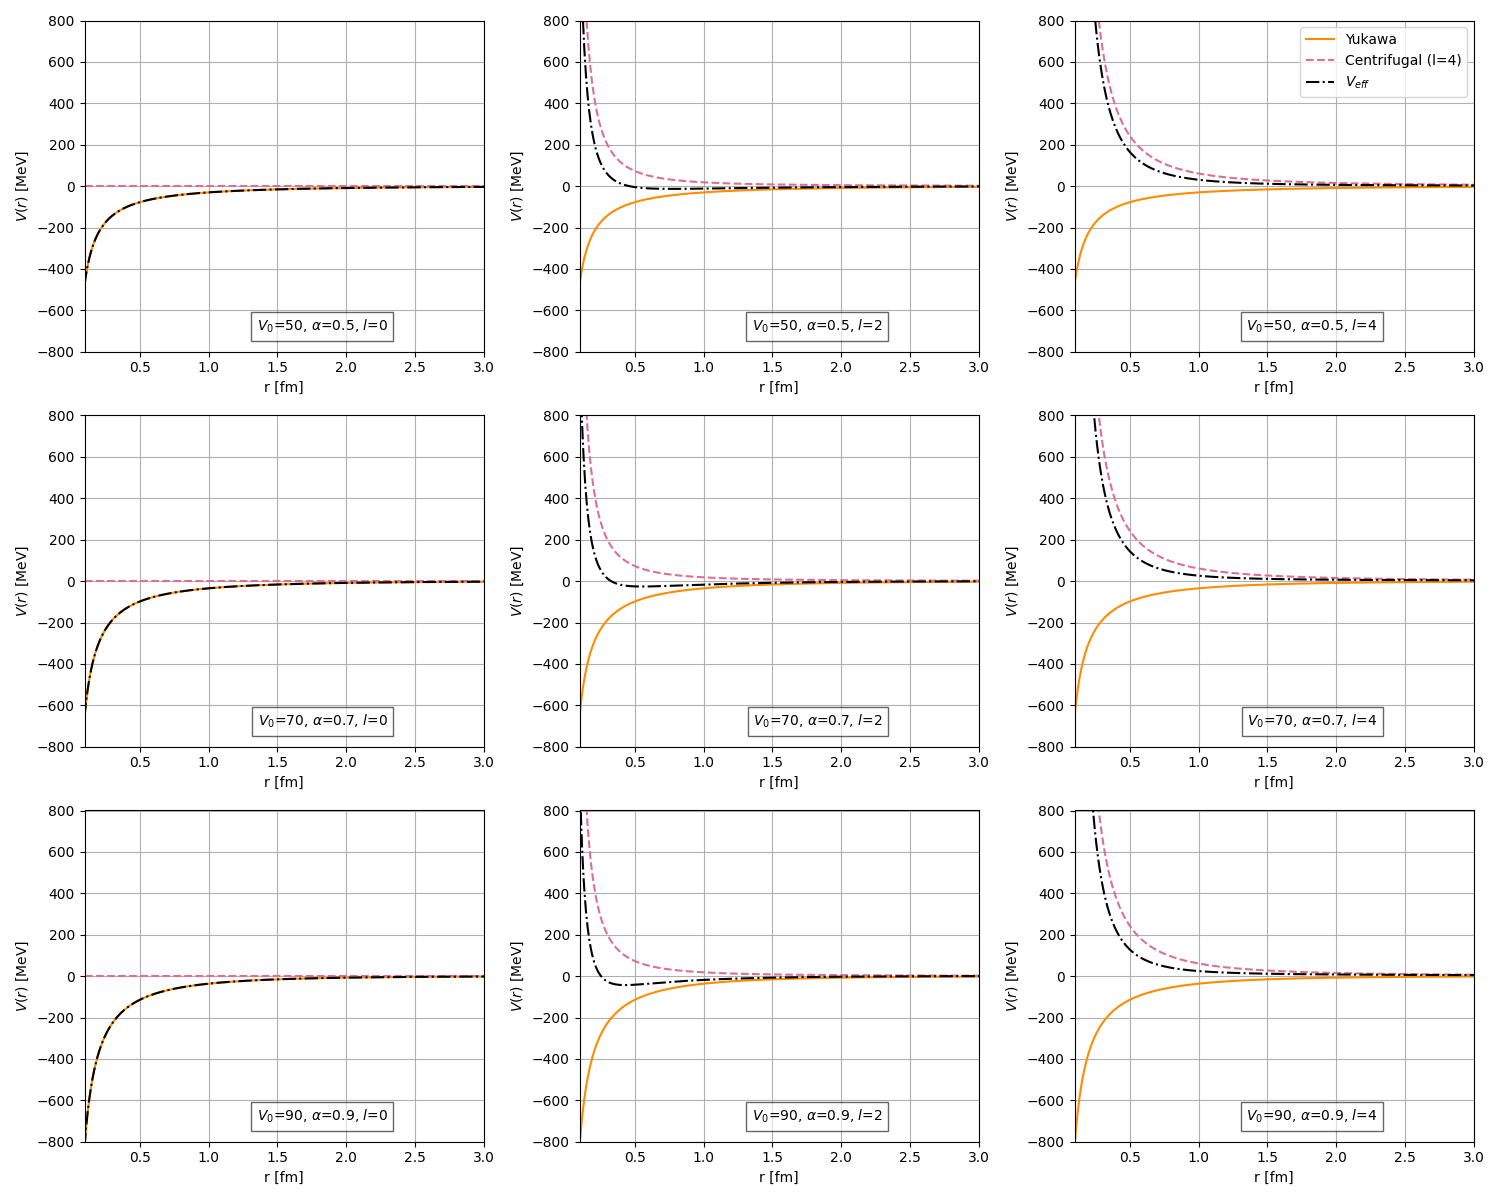
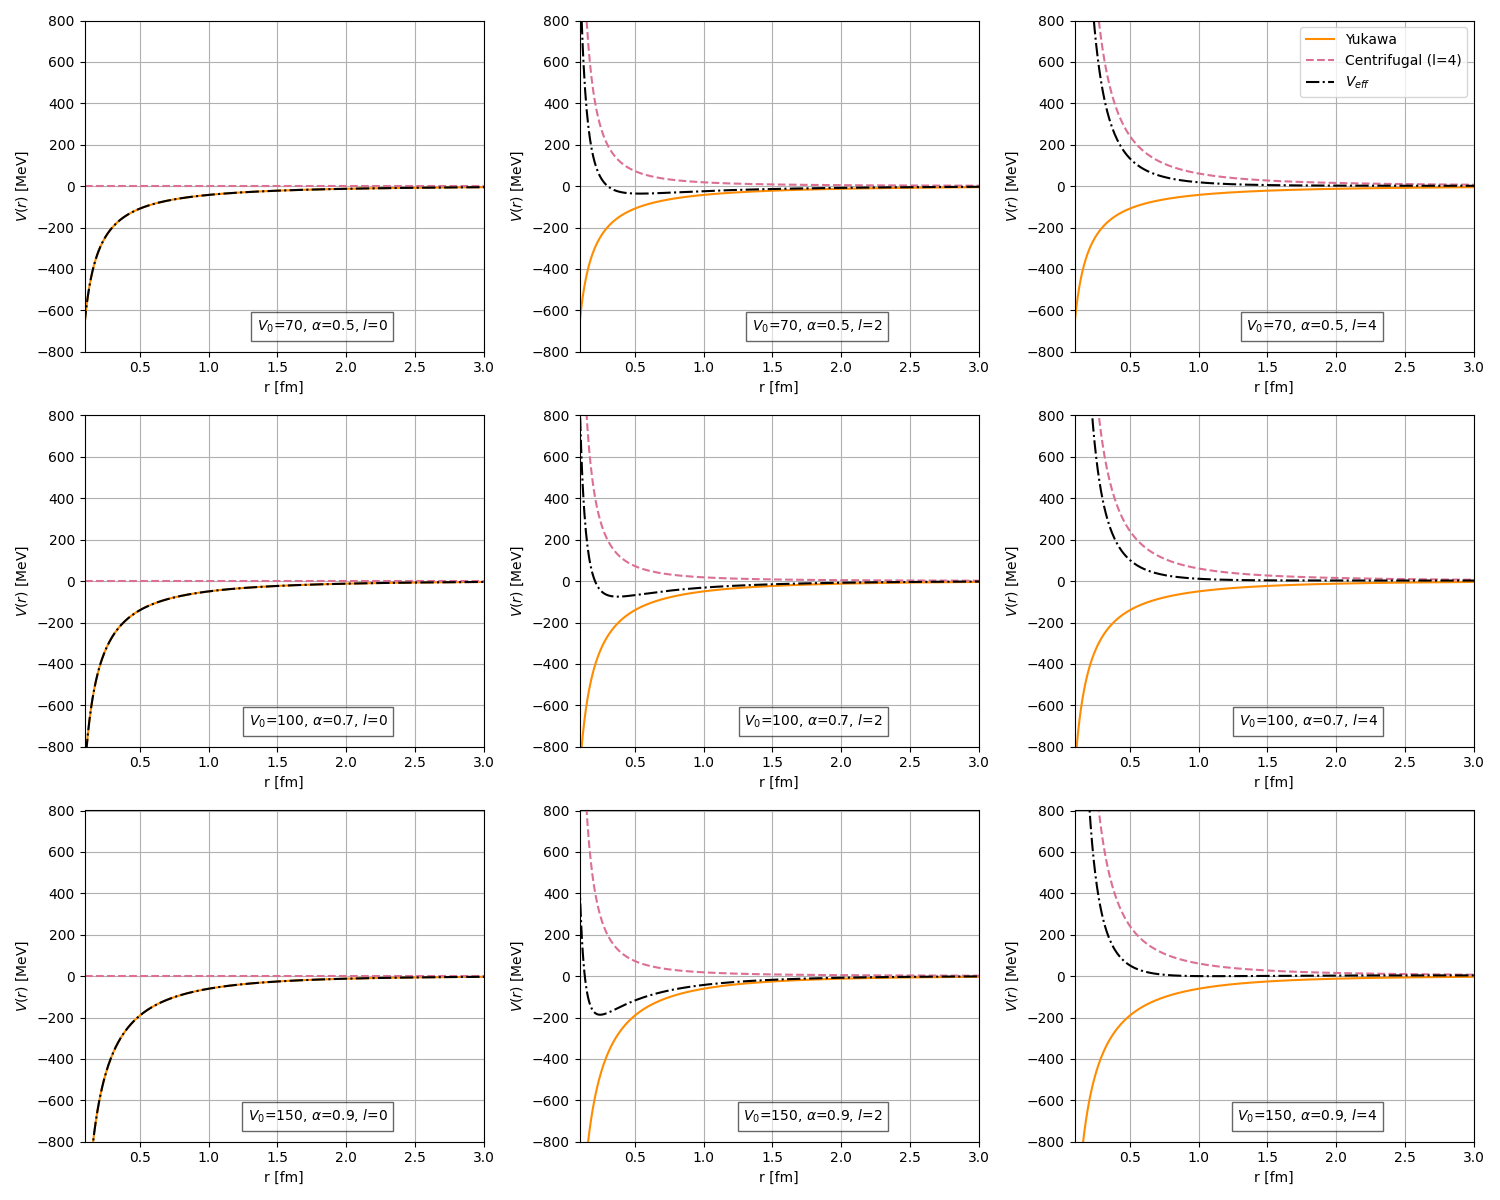
real final ver p5

diff --git a/Subatomic/problem_5/minepotential.py b/Subatomic/problem_5/minepotential.py
@@ -7,7 +7,7 @@ mu = (m1*m2)/(m1+m2)    # masa reducida en MeV/c^2
 hbarc = 197.3           # [MeV·fm]
 
 # different values for V0 [MeV] (depth) and alpha [fm^-1]
-param_sets = [(50, 0.5),(70, 0.7),(90, 0.9)]
+param_sets = [(70, 0.5),(100, 0.7),(150, 0.9)]
 
 r = np.linspace(0.1, 3, 500)
 
